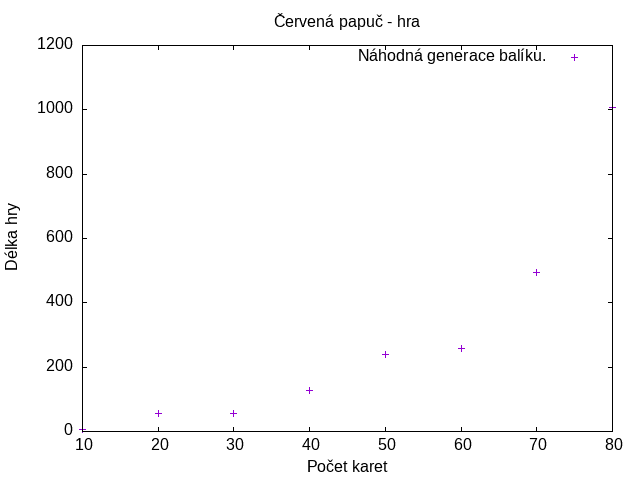
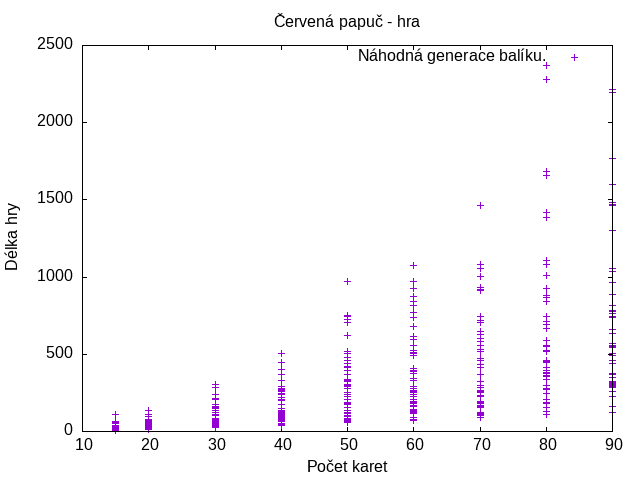
updated seed for rand

diff --git a/cervena-papuca/cervena-papuca.go b/cervena-papuca/cervena-papuca.go
@@ -5,10 +5,14 @@ import (
 	"math/rand"
 	"os"
 	"strconv"
+	"time"
 )
 
 func gen_packs(pack_size int) []int {
+	// Actually Seed is deprecated.
+	rand.Seed(time.Now().UnixNano())
 	pack := rand.Perm(pack_size)
+	fmt.Println(pack)
 	for i := 0; i < pack_size; i++ {
 		pack[i] = (pack[i] % 2)
 	}
@@ -20,6 +24,7 @@ func get_standard_pack() []int {
 		0, 0, 0, 0, 0, 0, 1, 1,
 		0, 0, 0, 0, 0, 0, 1, 1,
 		0, 0, 0, 0, 0, 0, 1, 1}
+	rand.Seed(time.Now().UnixNano())
 	rand.Shuffle(len(pack), func(i, j int) {
 		pack[i], pack[j] = pack[j], pack[i]
 	})
